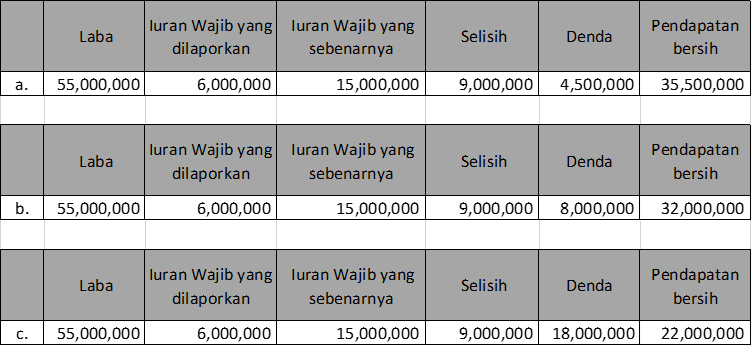
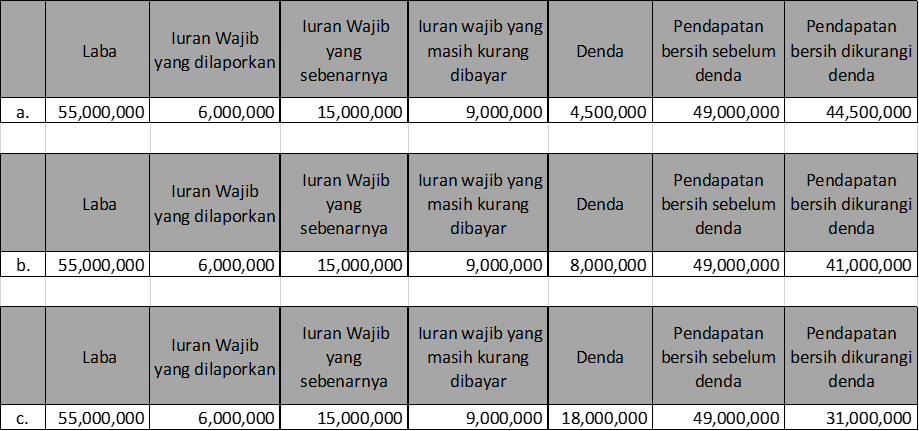
Mockup 2.2

diff --git a/after_survey/models.py b/after_survey/models.py
@@ -39,7 +39,7 @@ class Player(BasePlayer):
     s5 = models.IntegerField(choices=[[1,"Tidak Mudah"],[2,"Cukup Mudah"],[3,"Mudah"],[4,"Sangat Mudah"]], label="5) Seberapa mudahkah penghitungan iuran wajib dalam penelitian ini?")
     s6 = models.IntegerField(choices=[[1,"Tidak Setuju"],[2,"Cukup Setuju"],[3,"Setuju"],[4,"Sangat Setuju"]], label="6) Seberapa setuju Anda dengan penurunan tarif dari 20% ke 15% di Nusa Makmur?")
     s7 = models.IntegerField(choices=[[1,"Tidak Percaya"],[2,"Cukup Percaya"],[3,"Percaya"],[4,"Sangat Percaya"]], label="7) Seberapa besar kepercayaan Anda terhadap Nusa Makmur terkait dengan perhitungan estimasi prefilled omset yang diterapkan dalam form pelaporan iuran wajib?", blank=True)
-    s8 = models.IntegerField(choices=[[1,"Tidak tahu"],[2,"Tidak Perlu"],[3,"Cukup Perlu"],[4,"Perlu"],[5,"Sangat Perlu"]], label="8) Seberapa perlukah penerapan prefilled omset dalam form pelaporan iuran wajib?", blank=True)
+    s8 = models.IntegerField(choices=[[1,"Tidak Perlu"],[2,"Cukup Perlu"],[3,"Perlu"],[4,"Sangat Perlu"]], label="8) Seberapa perlukah penerapan prefilled omset dalam form pelaporan iuran wajib?", blank=True)
     s9 = models.IntegerField(choices=[[1,"Tidak pernah lupa"],[2,"1 s.d. 2 periode"],[3,"3 s.d 5 periode"],[4,"6 s.d 10 periode"],[5,"Lebih dari 10 periode"]], label="9) Seberapa sering Anda lupa untuk mencatat omset usaha Anda dari game ini?")
     s10 = models.IntegerField(choices=[[1,"Tidak Mengerti"],[2,"Cukup Mengerti"],[3,"Mengerti"],[4,"Sangat Mengerti"]], label="10) Menurut Anda, seberapa mengertikah Anda tentang pajak?")
     s11 = models.IntegerField(choices=[[1,"Tidak Paham"],[2,"Cukup Paham"],[3,"Paham"],[4,"Sangat Paham"]], label="11) Seberapa besar pemahaman Anda terkait penggunaan pajak untuk pembiayaan negara?")
@@ -55,7 +55,7 @@ class Player(BasePlayer):
     t14 = models.IntegerField(choices=[[1,'Diploma 3 (D3)'],[2,'Sarjana (S1/D4)'],[3,'Magister (S2)'],[4,'Doktoral (S3)']], label='4) Tingkat pendidikan yang sedang berlangsung atau sudah diselesaikan')
     t15 = models.StringField(label="5) Fakultas")
     t16 = models.StringField(label="6) Program Studi")
-    t17 = models.IntegerField(choices=[[1,"Matrikulasi"],[2,"Semester I"],[3,"Semester II"],[4,"Semester III"],[5,"Semester IV"],[6,"Semester V"],[7,"Semester VI"],[8,"Semester VII"],[9,"Semester VIII"],[10,"Semester IX"],[11,"Semester X"],[12,"Semester XI"],[13,"Semester XII"],[14,"Semester Lainnya"]], label='7)	Saat ini Anda sedang di semester berapa?')
+    t17 = models.IntegerField(choices=[[1,"Matrikulasi"],[2,"Semester I"],[3,"Semester II"],[4,"Semester III"],[5,"Semester IV"],[6,"Semester V"],[7,"Semester VI"],[8,"Semester VII"],[9,"Semester VIII"],[10,"Semester IX"],[11,"Semester X"],[12,"Semester XI"],[13,"Semester XII"],[14,"Semester Lainnya"],[15,"Sudah lulus"]], label='7)	Saat ini Anda sedang di semester berapa?')
     t18 = models.IntegerField(choices=[[1,'Di bawah 500 ribu'],[2,'500 ribu s.d 1 juta'],[3,'1 jt s.d 1,5 jt'],[4,'1,5 jt s.d 2 jt'],[5,'2 jt s.d 2,5 jt'],[6,'di atas 2,5 jt']], label='8)	Rata-rata pengeluaran setiap bulan')
     t19 = models.StringField(label="9) Nomor HP OVO/GOPAY")
     t20 = models.StringField(label="10)	Alamat email alternatif")

diff --git a/instruction/models.py b/instruction/models.py
@@ -61,8 +61,8 @@ class Player(BasePlayer):
     #Ins3
     q12 = models.IntegerField(choices=[[1,'a'],[2,'b'],[3,'c']],label='1) Jika Anda melaporkan omset sebesar 100juta, berapakah pendapatan bersih Anda setelah dikurangi iuran wajib? Tarif iuran wajib adalah 15% dikali dengan omset dilaporkan<br><img src="https://i.ibb.co/84cSqdd/q1.png" alt="q12" border="0" width="600" height="300"><br>Pilih jawaban di bawah?')
     q13 = models.IntegerField(choices=[[1,'a'],[2,'b'],[3,'c']],label='2) Jika Anda melaporkan omset hanya sebesar 40juta (melaporkan omset lebih rendah dari omset usaha), berapakah pendapatan bersih Anda setelah dikurangi iuran wajib?<br><img src="https://i.ibb.co/fXWDR44/q2.png" alt="q13" border="0" width="600" height="300"><br>Pilih jawaban di bawah?')
-    q14 = models.IntegerField(choices=[[1,'a'],[2,'b'],[3,'c']],label='3) Jika dalam kondisi nomor 2 dan kemudian Anda diperiksa, berapakah pendapatan bersih Anda setelah dikurangi denda yang harus Anda bayarkan? Tarif denda adalah 200% dikali dengan iuran wajib yang masih kurang dibayar (yaitu: iuran wajib yang sebenarnya dikurangi dengan iuran wajib yang dilaporkan).<br><img src="https://i.ibb.co/W3Cg9qK/q3.png" alt="q14" border="0" width="600" height="250"><br>Pilih jawaban di bawah?')
-    q15 = models.IntegerField(choices=[[1,'Tetap 49 juta'],[2,'Turun menjadi 35 juta'],[3,'Turun menjadi 22 juta']],label='4) Jika dalam kondisi nomor 2 (melaporkan omset lebih rendah dari omset usaha) namun Anda tidak termasuk dalam probabilitas pengusaha yang diperiksa, berapakah pendapatan bersih Anda?')
+    q14 = models.IntegerField(choices=[[1,'a'],[2,'b'],[3,'c']],label='3) Jika dalam kondisi nomor 2 dan kemudian Anda diperiksa, berapakah pendapatan bersih Anda setelah dikurangi denda yang harus Anda bayarkan? Tarif denda adalah 200% dikali dengan iuran wajib yang masih kurang dibayar (yaitu: iuran wajib yang sebenarnya dikurangi dengan iuran wajib yang dilaporkan).<br><img src="https://i.ibb.co/VpYJ4qg/q3.png" alt="q14" border="0" width="600" height="250"><br>Pilih jawaban di bawah?')
+    q15 = models.IntegerField(choices=[[1,'Tetap 49 juta'],[2,'Naik menjadi 55 juta'],[3,'Turun menjadi 22 juta']],label='4) Jika dalam kondisi nomor 2 (melaporkan omset lebih rendah dari omset usaha) namun Anda tidak termasuk dalam probabilitas pengusaha yang diperiksa, berapakah pendapatan bersih Anda?')
     performance = models.IntegerField(initial=0, blank=False)
     waktu = models.IntegerField(widget=widgets.RadioSelect, label='Waktu', choices=[[30,'30 detik'],[45,'45 detik'],[60,'60 detik']])
     total_omset = models.FloatField(initial=0, blank=False)

diff --git a/game/pages.py b/game/pages.py
@@ -159,7 +159,7 @@ class Hasil(Page):
         self.participant.vars['prefill_omset'] = prefilled_omset
         self.player.prefill_persen = prefilled_persen
 
-class Laporpajak(Page):
+class Laporan(Page):
     form_model = 'player'
     form_fields = ['omset_input','payoff_awal']
 
@@ -183,7 +183,7 @@ class Laporpajak(Page):
         self.participant.vars['total_payoff_'+ str(self.round_number)] = self.player.payoff_awal
 
 #randomlist 3 dari 0 s.d. 10
-class Periksapajak(Page):
+class Periksa(Page):
     form_model = 'player'
     form_fields = ['total_payoff', 'audit', 'restitusi', 'denda']
 
